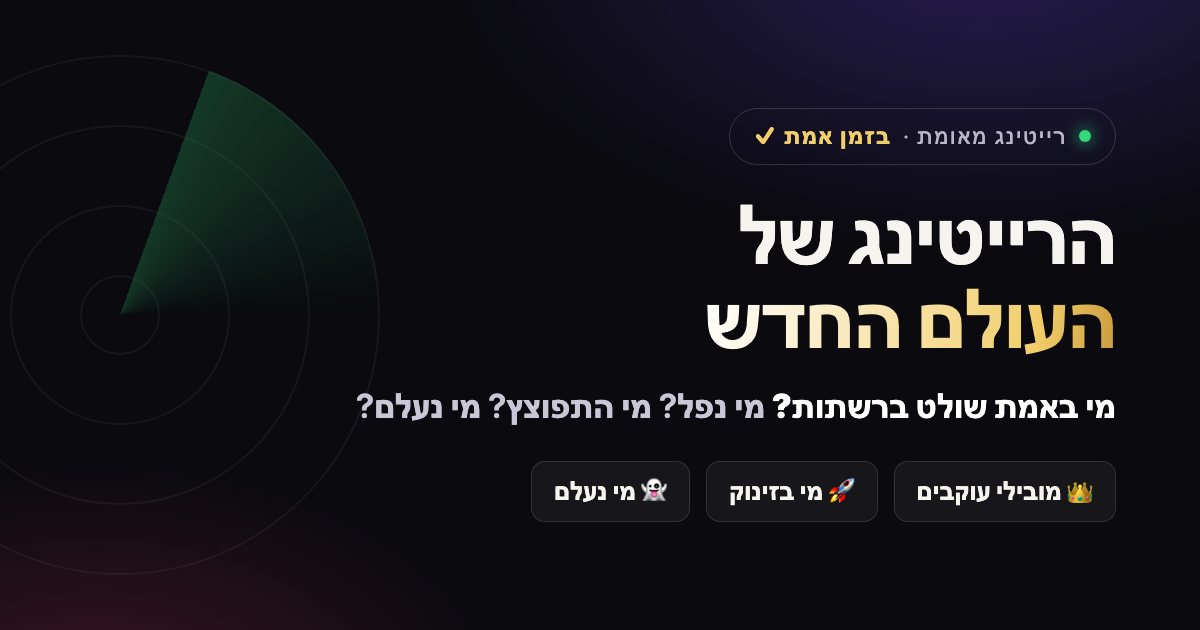
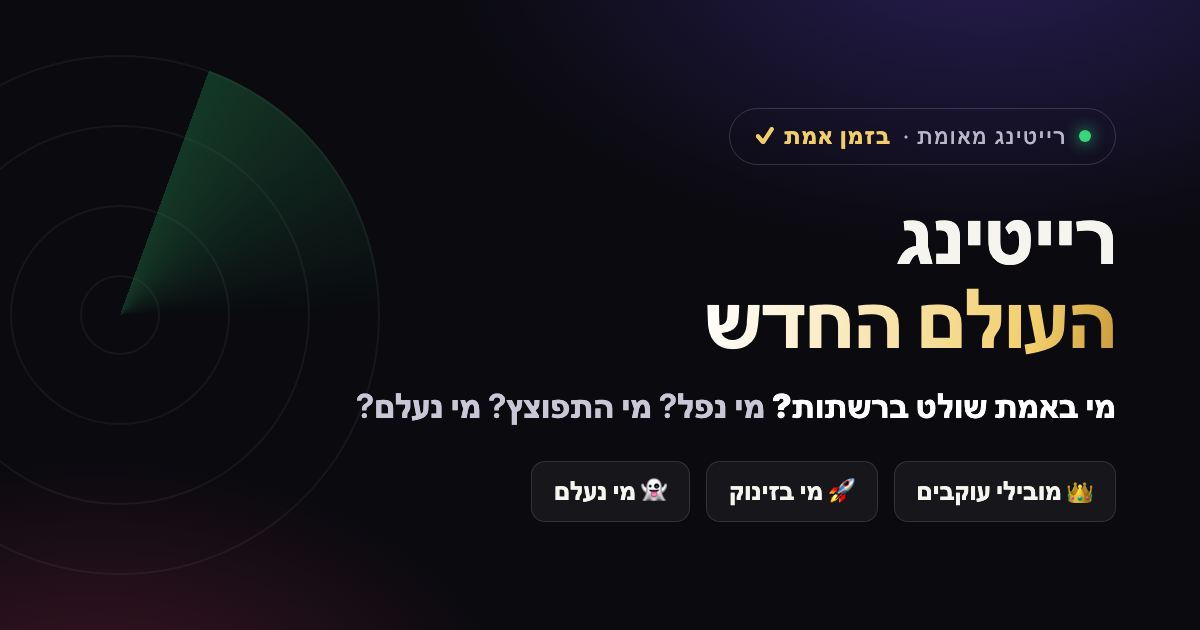
Rename to 'Rating of the New World' (drop 'shel')

Changed region(s): [[0.6167, 0.3317, 0.925, 0.4222]]

diff --git a/index.html b/index.html
@@ -3,32 +3,32 @@
 <head>
 <meta charset="utf-8">
 <meta name="viewport" content="width=device-width, initial-scale=1, viewport-fit=cover">
-<title>הרייטינג של העולם החדש</title>
+<title>רייטינג העולם החדש</title>
 <meta name="description" content="מי באמת שולט ברשתות? מי נפל? מי התפוצץ? מי נעלם? הרייטינג החם של הרשתות בישראל — בזמן אמת.">
 <link rel="icon" type="image/svg+xml" href="favicon.svg">
 <link rel="alternate icon" type="image/png" href="favicon-32.png">
 <link rel="apple-touch-icon" href="apple-touch-icon.png">
 <meta name="theme-color" content="#0A0A0F">
 <meta property="og:type" content="website">
-<meta property="og:site_name" content="הרייטינג של העולם החדש">
-<meta property="og:title" content="הרייטינג של העולם החדש">
+<meta property="og:site_name" content="רייטינג העולם החדש">
+<meta property="og:title" content="רייטינג העולם החדש">
 <meta property="og:description" content="מי באמת שולט ברשתות? מי נפל? מי התפוצץ? מי נעלם? הרייטינג החם של הרשתות בישראל — בזמן אמת.">
 <meta property="og:url" content="https://bendaskalo.github.io/daskalo-radar/">
 <meta property="og:image" content="https://bendaskalo.github.io/daskalo-radar/og.png">
 <meta property="og:image:secure_url" content="https://bendaskalo.github.io/daskalo-radar/og.png">
 <meta property="og:image:width" content="1200">
 <meta property="og:image:height" content="630">
-<meta property="og:image:alt" content="הרייטינג של העולם החדש">
+<meta property="og:image:alt" content="רייטינג העולם החדש">
 <meta property="og:locale" content="he_IL">
 <meta name="twitter:card" content="summary_large_image">
-<meta name="twitter:title" content="הרייטינג של העולם החדש">
+<meta name="twitter:title" content="רייטינג העולם החדש">
 <meta name="twitter:description" content="מי באמת שולט ברשתות? מי נפל? מי התפוצץ? מי נעלם? הרייטינג החם של הרשתות בישראל — בזמן אמת.">
 <meta name="twitter:image" content="https://bendaskalo.github.io/daskalo-radar/og.png">
 <style>*{margin:0}html,body{background:#0A0A0F}</style>
 </head>
 <body>
 <div class="app" dir="rtl" lang="he">
-  <title>הרייטינג של העולם החדש</title>
+  <title>רייטינג העולם החדש</title>
   <style>
     :root{
       --ink:#0B0B0F; --surface:#15151C; --card:#1B1B24; --card2:#22222D;
@@ -250,7 +250,7 @@
   <div class="home" id="home">
     <nav class="nav"><div class="wrap in">
       <svg class="emblem" viewBox="0 0 48 48" aria-hidden="true"><circle cx="24" cy="24" r="22.5" fill="none" stroke="#EBC868" stroke-width="1.6" stroke-dasharray="1.4 2.3"/><circle cx="24" cy="24" r="18.5" fill="none" stroke="#EBC868" stroke-width="1.4"/><path d="M14 29 L12 17 L19 22 L24 12 L29 22 L36 17 L34 29 Z" fill="#EBC868"/><rect x="14.5" y="30" width="19" height="3.4" rx="1.5" fill="#EBC868"/></svg>
-      <div class="brand"><span class="t">הרייטינג של העולם החדש</span><span class="s">רייטינג מאומת · בזמן אמת ✓</span></div>
+      <div class="brand"><span class="t">רייטינג העולם החדש</span><span class="s">רייטינג מאומת · בזמן אמת ✓</span></div>
       <div class="sp"></div>
       <button class="browse" id="ovBtn">📊 <span class="lbl">סקירה כללית</span></button>
       <button class="cmp" id="openCmp">⚔ <span class="lbl">יצירת השוואה משלך</span></button>
@@ -274,9 +274,9 @@
           <text x="60" y="101" text-anchor="middle" fill="#EBC868" font-size="12" font-weight="900" font-family="Arial" letter-spacing="1">מאומת</text>
         </svg>
       </div>
-      <div class="stamp-cap">חותמת האמינות של <b>הרייטינג של העולם החדש</b></div>
+      <div class="stamp-cap">חותמת האמינות של <b>רייטינג העולם החדש</b></div>
       <button class="apply-cta" id="applyBtn">🏆 לא רואים את עצמכם? הגישו מועמדות</button>
-      <div><span class="wm">הרייטינג של העולם החדש</span></div>
+      <div><span class="wm">רייטינג העולם החדש</span></div>
       <div class="fn">מדד הרייטינג רייט-בייסד: עליית עוקבים, מעורבות לעוקב, כמות פרסומים, עומק שיח, צפיות/וירליות ומומנטום — לא כמות עוקבים מוחלטת. נתונים חיים מאינסטגרם, מתעדכן יומית. השוואות מוצגות למטרות מידע ובידור.</div>
     </div>
   </div>
@@ -554,7 +554,7 @@
       const name=document.getElementById("apName").value.trim(), handle=document.getElementById("apHandle").value.trim(), cat=document.getElementById("apCat").value, msg=document.getElementById("apMsg").value.trim();
       if(!name||!handle){ alert("נא למלא שם ושם משתמש באינסטגרם"); return; }
       const body=encodeURIComponent("שם: "+name+"\\nאינסטגרם: "+handle+"\\nקטגוריה: "+(cat||"-")+"\\nהודעה: "+(msg||"-"));
-      location.href="mailto:ben@b-films.co.il?subject="+encodeURIComponent("בקשת מועמדות — הרייטינג של העולם החדש")+"&body="+body;
+      location.href="mailto:ben@b-films.co.il?subject="+encodeURIComponent("בקשת מועמדות — רייטינג העולם החדש")+"&body="+body;
       document.getElementById("apDone").hidden=false;
     });
 
@@ -614,7 +614,7 @@
 <div class="a11y-modal" id="a11yModal" role="dialog" aria-modal="true" aria-label="הצהרת נגישות">
   <div class="box"><button class="x" id="a11yModalX" aria-label="סגירה">✕</button>
     <h3>הצהרת נגישות</h3>
-    <p>אתר "הרייטינג של העולם החדש" רואה חשיבות רבה במתן שירות שוויוני, ופועל להנגשת האתר בהתאם ל<b>תקנות שוויון זכויות לאנשים עם מוגבלות (התאמות נגישות לשירות), התשע"ג-2013</b> ולתקן הישראלי <b>ת"י 5568</b> ברמת AA (WCAG 2.0).</p>
+    <p>אתר "רייטינג העולם החדש" רואה חשיבות רבה במתן שירות שוויוני, ופועל להנגשת האתר בהתאם ל<b>תקנות שוויון זכויות לאנשים עם מוגבלות (התאמות נגישות לשירות), התשע"ג-2013</b> ולתקן הישראלי <b>ת"י 5568</b> ברמת AA (WCAG 2.0).</p>
     <p><b>מה הונגש:</b> תפריט נגישות (הגדלת טקסט, ניגודיות, גווני אפור, הדגשת קישורים, גופן קריא, עצירת אנימציות, סמן גדול), מבנה סמנטי, ניווט מקלדת, סימון פוקוס, טקסט חלופי לתמונות ותמיכה ב-RTL.</p>
     <p><b>מגבלות ידועות:</b> ייתכנו רכיבים שטרם הונגשו במלואם; אנו פועלים לשיפור מתמיד.</p>
     <p><b>פניות בנושא נגישות:</b> רכז/ת הנגישות — בן דסקלו · <a href="mailto:ben@b-films.co.il">ben@b-films.co.il</a>.</p>
